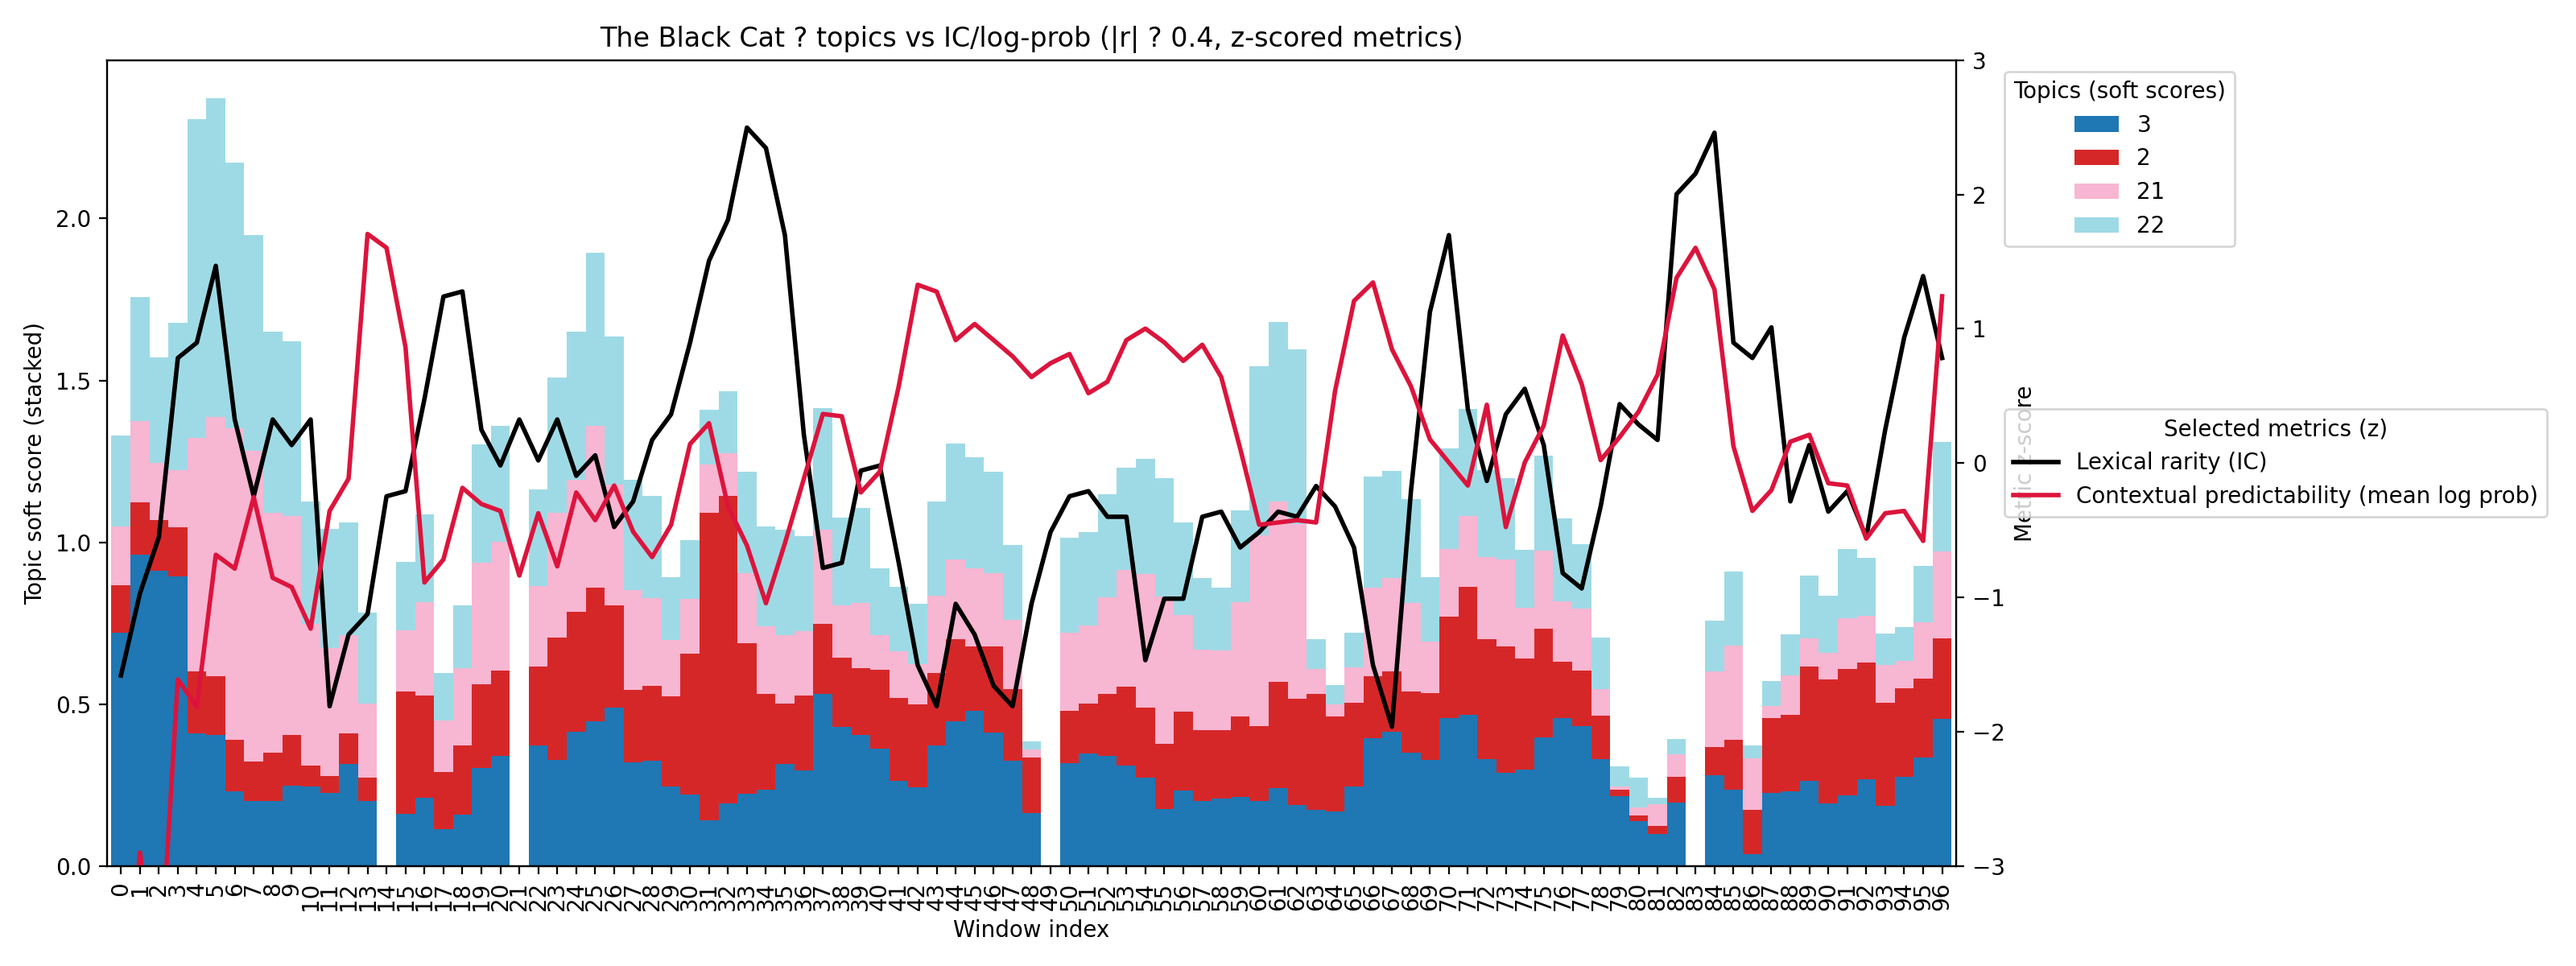
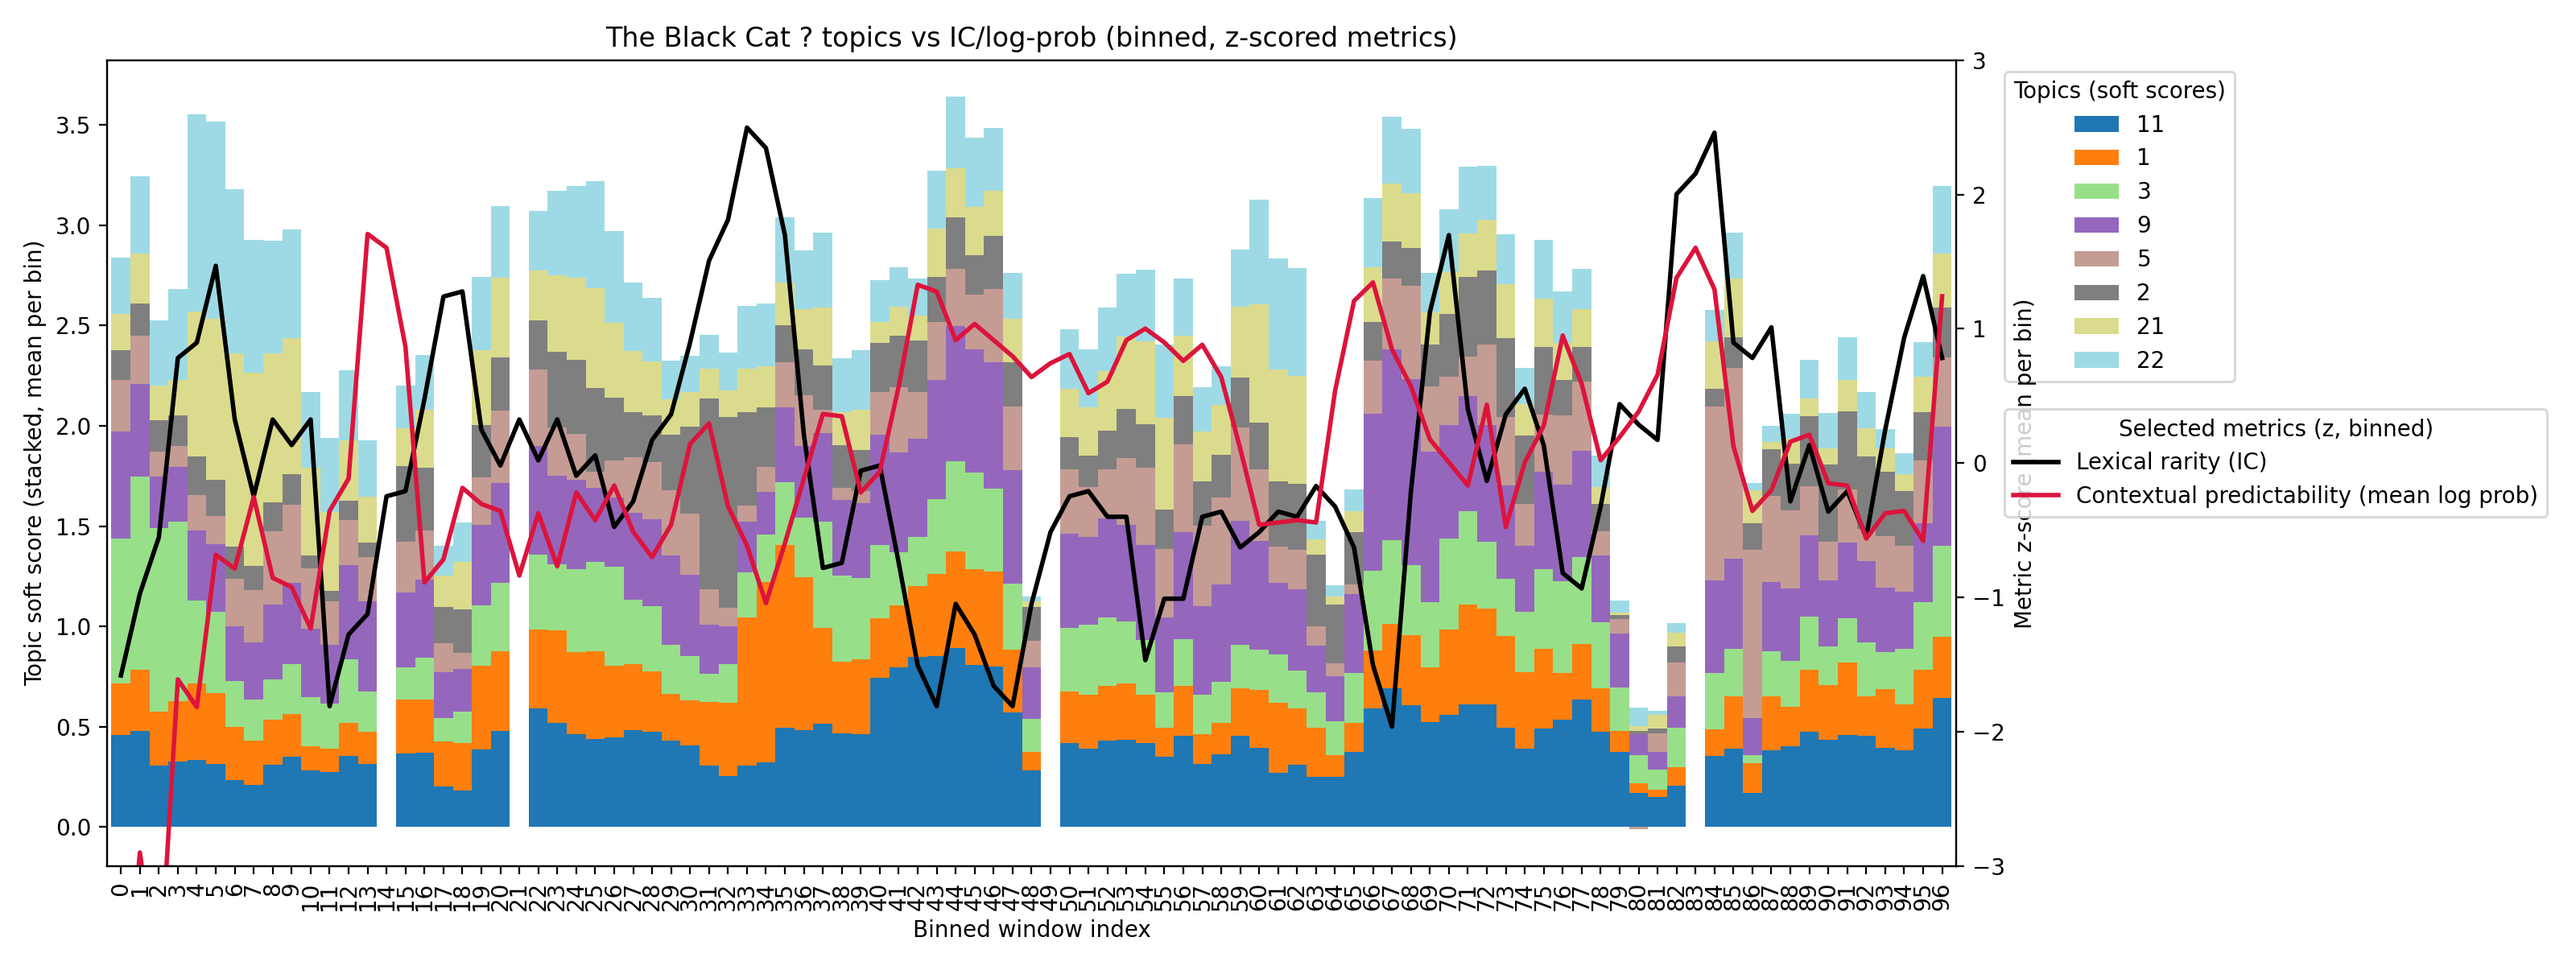
tewst

diff --git a/README.md b/README.md
@@ -112,9 +112,11 @@ Together, these metrics support a multi-layer alignment analysis: *what* is emph
 - Several modules still have TODOs and may assume corpus frequency data exists.
 - Tests are not present yet; `pytest` is included in `requirements.txt` for future coverage.
 
-## Preliminary findings (The Black Cat)
+## Preliminary findings
 
-### Bar/line chart
+### The Black Cat
+
+#### Bar/line chart
 
 ![The Black Cat - topics vs IC/log-prob (|r| >= 0.4)](data/analytics/dashboard/short_stories/the_black_cat/the_black_cat_topic_ic_logprob_r04.png)
 
@@ -126,9 +128,26 @@ Together, these metrics support a multi-layer alignment analysis: *what* is emph
   - Topic 22 - animal; man; listen; learn; love animal; love; destroy child; hear destroy
 - Observation: Topic 3 shows strong negative correlation with contextual predictability (mean log-probability), while Topics 2/21/22 align with higher lexical rarity (information content), suggesting emphasis spikes when these motifs surface.
 
-### Top correlations (|r| >= 0.5)
+#### Top correlations (|r| >= 0.5)
 
 - Topic 3 - perplexity up (r=+0.78), mean_surprisal up (r=+0.66), mean_log_prob down (r=-0.66); keywords: tomorrow die; tomorrow; die; today want; today; happen; happen free; soul horrible. Interpretation: "fatal tomorrow" motif coincides with less predictable, more surprising language.
 - Topic 0 - contingency connectives up (r=+0.65); keywords: hang; know; love; outside reach; place soul; deadly place; reason hurt; eye hang. Interpretation: "hanging/doom" motif framed with more causal/contingency linking.
 - Topic 21 - positional/lexical windows shift (r=-0.50 across info_content/avg_word_freq/lexical_density windows and sentence_index); keywords: man; love; love animal; animal; learn; man quite; young marry; somet love. Interpretation: "affection/animal bond" motif clusters earlier and brings distinct lexical rarity/density.
 - Topic 1 - contingency connectives up (r=+0.50); keywords: law; time; time push; human; time wrong; human time; push drive; evil thing. Interpretation: "law/time/pressure" motif accompanied by more causal connectives.
+
+### A Clockwork Orange
+
+#### Bar/line chart (binned ~100 bins)
+
+![A Clockwork Orange - topics vs IC/log-prob](data/analytics/dashboard/novellas/a_clockwork_orange/a_clockwork_orange_topic_ic_logprob.png)
+
+- Stacked soft topic scores per binned window (mean per bin); right axis: z-scored metrics (lexical rarity, mean log-probability); topics plotted: 48, 50.
+- Topics visible (keywords):
+  - Topic 48 - old; dim; old baboochkas; round; sud; baboochkas; lad; buy
+  - Topic 50 - say georgie; lad; say; georgie; georgieboy; dim; buy; right right (low correlation with target metrics)
+- Observation: correlations to IC/log-prob are modest; main trend is positional/lexical shifts for Topics 48/50.
+
+#### Top correlations (|r| >= 0.3)
+
+- Topic 48 - r=-0.36 across sentence_index and lexical windows (avg_word_freq_window, information_content_window, lexical_density_window); keywords: old; dim; old baboochkas; round; sud; baboochkas; lad; buy. Interpretation: this motif appears in earlier windows with distinct lexical rarity/frequency patterns.
+- Topic 50 - r=-0.31 across sentence_index and lexical windows; keywords: say georgie; lad; say; georgie; georgieboy; dim; buy; right right. Interpretation: another positional/lexical shift, modest effect size.
